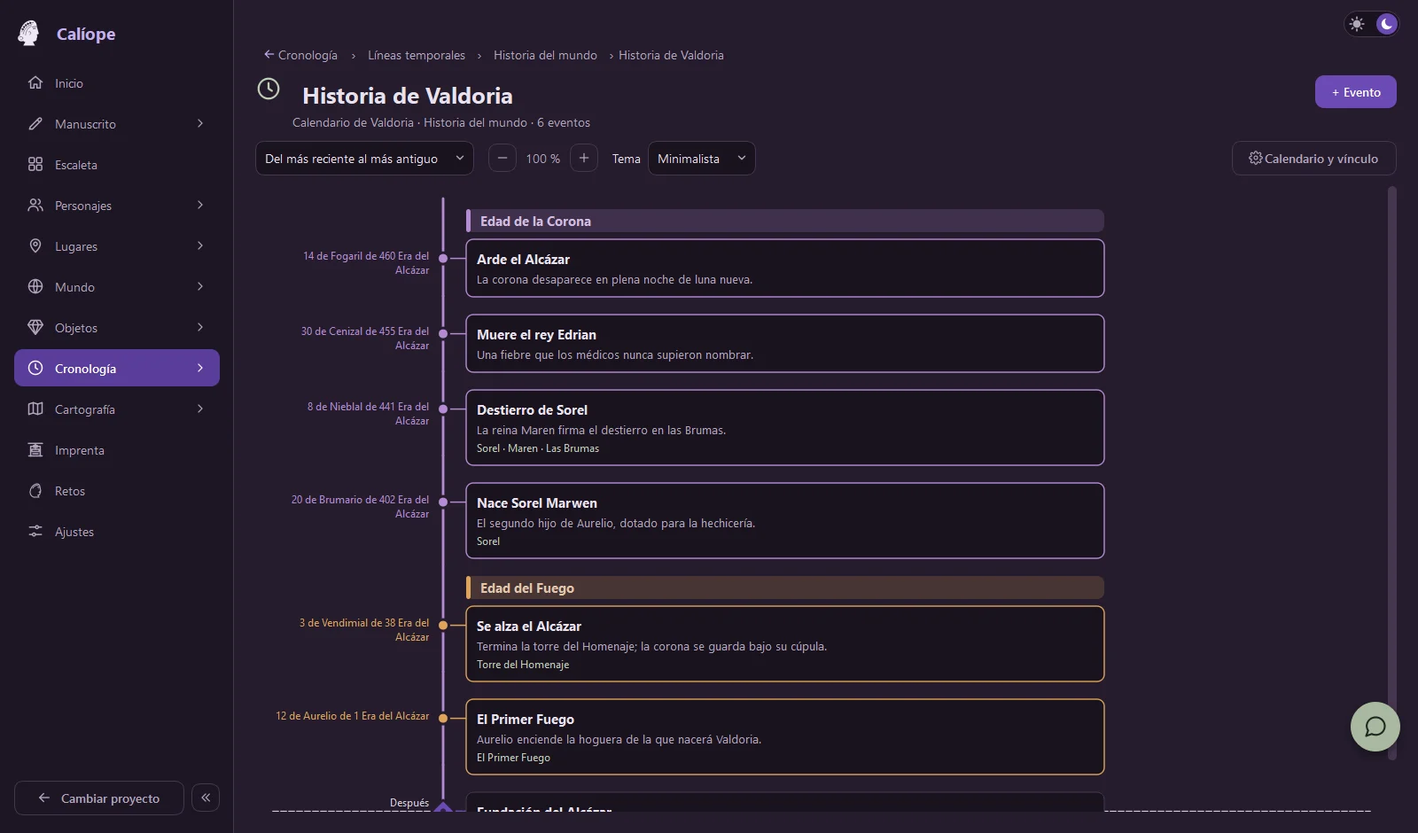
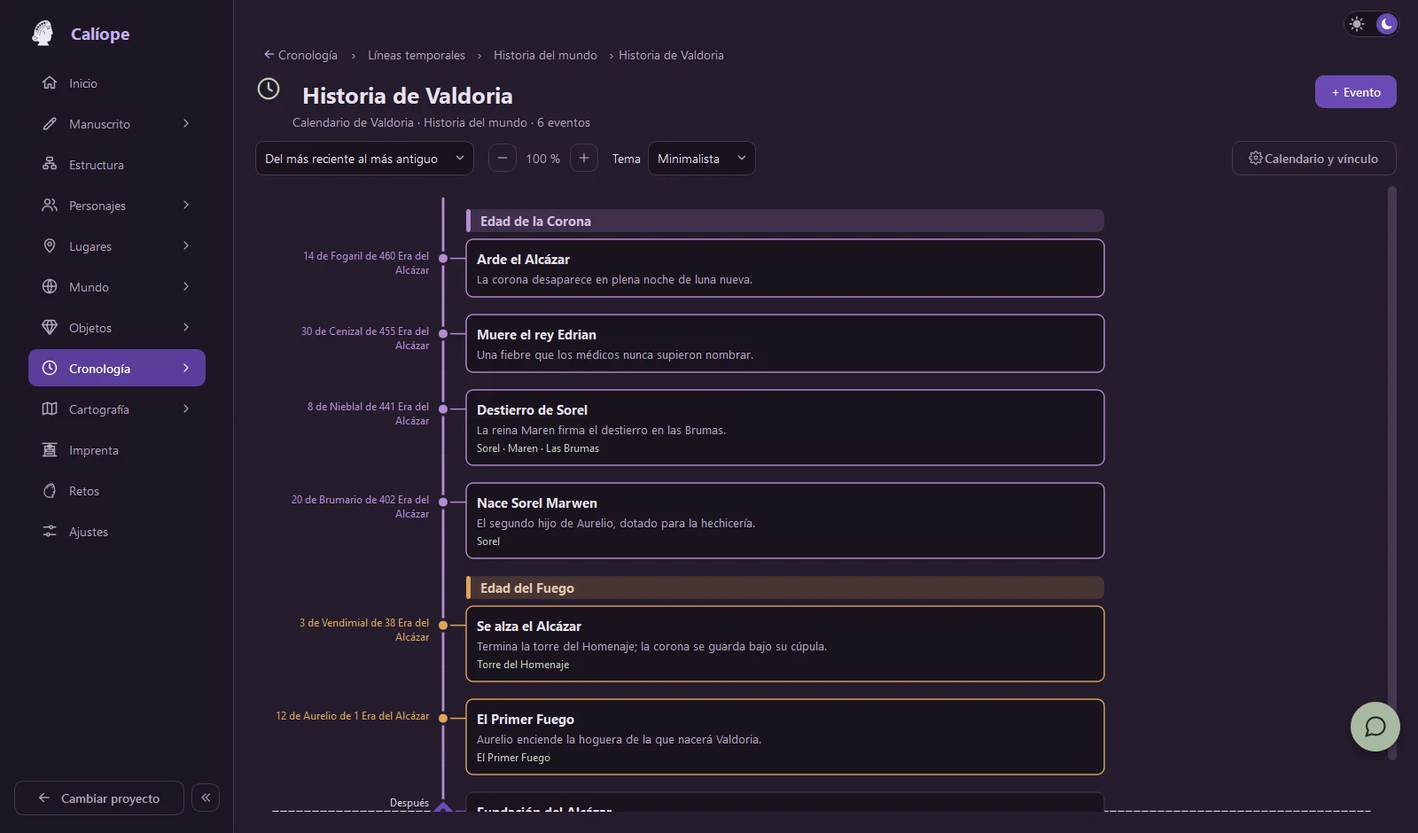
Calíope 1.10.0: Continuidad, Estructura y web renovada

diff --git a/docs/index.html b/docs/index.html
@@ -3,14 +3,14 @@
 <head>
 <meta charset="utf-8">
 <meta name="viewport" content="width=device-width, initial-scale=1">
-<meta name="caliope-version" content="1.9.1">
+<meta name="caliope-version" content="1.10.0">
 <title>Calíope — Invoca a tus musas. Da vida a tus mundos.</title>
-<meta name="description" content="Calíope es una aplicación de escritorio para escritores: manuscrito, escaleta, personajes, mundo, mapas, cronologías y exportación a EPUB, Kindle, DOCX y PDF. Todo en tu ordenador, sin cuentas ni nube.">
+<meta name="description" content="Calíope es una aplicación de escritorio para escritores: manuscrito con revisión de continuidad, escaleta y matriz de ritmo, personajes, mundo, mapas, cronologías y exportación a EPUB, Kindle, DOCX y PDF. Todo en tu ordenador, sin cuentas ni nube.">
 <meta name="theme-color" content="#1b1422" media="(prefers-color-scheme: dark)">
 <meta name="theme-color" content="#EDE6DA" media="(prefers-color-scheme: light)">
 <meta name="color-scheme" content="dark light">
 <meta property="og:title" content="Calíope — Invoca a tus musas. Da vida a tus mundos.">
-<meta property="og:description" content="Tu musa para la escritura: manuscrito, mundo, mapas y cronologías, 100 % en tu ordenador.">
+<meta property="og:description" content="Tu musa para la escritura: manuscrito, continuidad, estructura, mundo, mapas y cronologías, 100 % en tu ordenador.">
 <meta property="og:type" content="website">
 <link rel="icon" href="assets/favicon.svg" type="image/svg+xml">
 <link rel="stylesheet" href="css/style.css">
@@ -24,20 +24,20 @@
     <div>
       <div class="logo" role="img" aria-label="Calíope"><span class="mark" aria-hidden="true"><!--LOGO--><svg xmlns="http://www.w3.org/2000/svg" viewBox="0 0 100 100"><defs><mask id="m" maskUnits="userSpaceOnUse" x="0" y="0" width="100" height="100"><rect width="100" height="100" fill="#fff"/><path d="M57.00 19.50C41.00 19.50 27.00 30.00 22.50 47.00Z" fill="none" stroke="#000" stroke-width="1.25" stroke-linecap="round"/><path d="M50.21 19.38C51.03 22.15 48.99 24.60 46.12 24.30C45.30 21.53 47.35 19.07 50.21 19.38Z" fill="#000"/><path d="M50.53 20.82C48.04 22.29 45.16 20.90 44.76 18.04C47.25 16.58 50.13 17.97 50.53 20.82Z" fill="#000"/><path d="M42.95 21.58C44.34 24.11 42.86 26.94 39.99 27.26C38.60 24.73 40.08 21.89 42.95 21.58Z" fill="#000"/><path d="M43.56 22.92C41.44 24.88 38.33 24.14 37.34 21.43C39.45 19.47 42.56 20.22 43.56 22.92Z" fill="#000"/><path d="M36.34 25.26C38.24 27.44 37.40 30.52 34.67 31.44C32.77 29.27 33.61 26.18 36.34 25.26Z" fill="#000"/><path d="M37.23 26.45C35.58 28.81 32.38 28.75 30.83 26.32C32.48 23.95 35.68 24.01 37.23 26.45Z" fill="#000"/><path d="M30.60 30.34C32.92 32.06 32.76 35.25 30.28 36.73C27.96 35.01 28.13 31.81 30.60 30.34Z" fill="#000"/><path d="M31.72 31.31C30.61 33.97 27.47 34.58 25.44 32.54C26.55 29.87 29.69 29.26 31.72 31.31Z" fill="#000"/><path d="M25.94 36.70C28.56 37.90 29.07 41.06 26.95 43.02C24.33 41.82 23.82 38.67 25.94 36.70Z" fill="#000"/><path d="M27.23 37.42C26.70 40.25 23.76 41.51 21.34 39.93C21.87 37.10 24.81 35.84 27.23 37.42Z" fill="#000"/><path d="M52 25.5C38 29 29 41 27 53" fill="none" stroke="#000" stroke-width="1.25" stroke-linecap="round" stroke-linejoin="round"/><path d="M50 31C41 35 35 44 34 56" fill="none" stroke="#000" stroke-width="1.25" stroke-linecap="round" stroke-linejoin="round"/><path d="M16 64C19 60 25 61 26 66C26 70 21 72 19 69" fill="none" stroke="#000" stroke-width="1.25" stroke-linecap="round" stroke-linejoin="round"/><path d="M44 47C49 44.5 51.5 50 47 55" fill="none" stroke="#000" stroke-width="1.25" stroke-linecap="round" stroke-linejoin="round"/><path d="M54.5 32.5C58 30.5 62 30.5 65.2 32.2" fill="none" stroke="#000" stroke-width="1.5" stroke-linecap="round"/><path d="M55.5 37.5C57.5 34.8 62 34.8 64.8 37.2C62 40 57.5 40.2 55.5 37.5Z" fill="#000"/><circle cx="60.4" cy="37.3" r="1.9" fill="#fff"/></mask></defs><path d="M54.00 13.00L55.46 13.35L56.86 13.83L58.17 14.44L59.41 15.16L60.56 16.00L61.63 16.93L62.61 17.95L63.50 19.06L64.30 20.25L65.00 21.50L65.60 22.81L66.09 24.18L66.49 25.59L66.77 27.03L66.94 28.51L67.00 30.00L72.50 50.50L73.19 52.31L72.31 53.69L70.00 54.50L66.50 55.20L68.12 57.40L69.00 59.00L68.36 60.15L67.50 61.00L68.50 62.56L68.00 64.50L66.91 66.06L66.80 68.00L66.85 69.49L66.50 70.94L65.75 72.28L64.59 73.49L63.00 74.50L61.75 75.03L60.52 75.42L59.31 75.70L58.15 75.88L57.04 75.97L56.00 76.00L56.30 77.09L56.64 78.18L57.04 79.27L57.49 80.36L57.98 81.45L58.53 82.55L59.12 83.64L59.77 84.73L60.46 85.82L61.21 86.91L62.00 88.00L27.00 88.00L27.67 86.70L28.33 85.47L29.00 84.30L29.67 83.17L30.33 82.09L31.00 81.04L31.67 80.01L32.33 79.00L33.00 78.00L31.84 77.46L30.70 76.87L29.59 76.23L28.51 75.56L27.47 74.83L26.69 74.25L25.16 74.91L23.39 75.35L21.50 75.50L19.61 75.35L17.84 74.91L16.20 74.20L14.73 73.27L13.47 72.12L12.43 70.79L11.66 69.31L11.17 67.71L11.00 66.00L11.17 64.29L11.66 62.69L12.43 61.21L13.47 59.88L14.73 58.73L16.20 57.80L17.12 57.40L17.04 56.42L17.00 55.00L17.02 53.44L17.10 51.88L17.22 50.34L17.39 48.82L17.60 47.30L17.86 45.80L18.17 44.32L18.52 42.86L18.91 41.42L19.35 39.99L19.83 38.59L20.35 37.22L20.91 35.86L21.51 34.54L22.14 33.24L22.82 31.96L23.53 30.72L24.28 29.51L25.06 28.33L25.88 27.19L26.74 26.08L27.62 25.00L28.54 23.96L29.50 22.96L30.48 22.00L31.49 21.08L32.53 20.21L33.60 19.37L34.70 18.59L35.83 17.84L36.98 17.15L38.16 16.50L39.36 15.91L40.59 15.36L41.84 14.87L43.11 14.43L44.40 14.04L45.72 13.72L47.05 13.45L48.40 13.23L49.78 13.08L51.17 12.99L52.58 12.96L54.00 13.00Z" fill="currentColor" mask="url(#m)"/></svg><!--/LOGO--></span><span class="word">Calíope</span></div>
       <h1>Invoca a tus musas.<em>Da vida a tus mundos.</em></h1>
-      <p class="lead">Un taller de escritura para tu ordenador: manuscrito, personajes, mapas y cronologías en un solo lugar, y de ahí a tu lector.</p>
+      <p class="lead">Un taller de escritura para tu ordenador: manuscrito, personajes, mapas y cronologías en un solo lugar, y de ahí a tus lectores.</p>
       <div class="badges">
         <span class="badge"><svg viewBox="0 0 24 24" fill="currentColor" aria-hidden="true"><path d="M3 5.5 10.5 4.4v7.1H3zm8.5-1.2L21 3v8.5h-9.5zM3 12.5h7.5v7.1L3 18.5zm8.5 0H21V21l-9.5-1.3z"/></svg>Windows 10 / 11</span>
         <span class="badge"><svg viewBox="0 0 24 24" fill="currentColor" aria-hidden="true"><path d="M16.4 12.6c0-2.3 1.9-3.4 2-3.5-1.1-1.6-2.8-1.8-3.4-1.8-1.4-.1-2.8.9-3.5.9s-1.8-.8-3-.8c-1.5 0-3 .9-3.8 2.3-1.6 2.8-.4 7 1.2 9.3.8 1.1 1.7 2.4 2.9 2.3 1.2 0 1.6-.7 3-.7s1.8.7 3 .7c1.3 0 2.1-1.1 2.8-2.3.9-1.3 1.3-2.5 1.3-2.6-.1 0-2.5-1-2.5-3.8zM14.1 5.8c.6-.8 1.1-1.8.9-2.9-.9 0-2 .6-2.7 1.4-.6.7-1.1 1.8-.9 2.8 1 .1 2-.5 2.7-1.3z"/></svg>macOS</span>
         <span class="badge">Gratis · sin cuenta</span>
       </div>
       <div class="cta">
-        <a class="btn win" href="https://github.com/marinaescobar/caliope/releases/download/v1.9.1/Caliope-Setup-1.9.1.exe">
+        <a class="btn win" href="https://github.com/marinaescobar/caliope/releases/download/v1.10.0/Caliope-Setup-1.10.0.exe">
           <svg viewBox="0 0 24 24" fill="currentColor" aria-hidden="true"><path d="M3 5.5 10.5 4.4v7.1H3zm8.5-1.2L21 3v8.5h-9.5zM3 12.5h7.5v7.1L3 18.5zm8.5 0H21V21l-9.5-1.3z"/></svg>
-          <span>Descargar para Windows<small>Instalador .exe · v1.9.1</small></span>
+          <span>Descargar para Windows<small>Instalador .exe · v1.10.0</small></span>
         </a>
-        <a class="btn mac" href="https://github.com/marinaescobar/caliope/releases/download/v1.9.1/Caliope-1.9.1-macOS-arm64.dmg">
+        <a class="btn mac" href="https://github.com/marinaescobar/caliope/releases/download/v1.10.0/Caliope-1.10.0-macOS-arm64.dmg">
           <svg viewBox="0 0 24 24" fill="currentColor" aria-hidden="true"><path d="M16.4 12.6c0-2.3 1.9-3.4 2-3.5-1.1-1.6-2.8-1.8-3.4-1.8-1.4-.1-2.8.9-3.5.9s-1.8-.8-3-.8c-1.5 0-3 .9-3.8 2.3-1.6 2.8-.4 7 1.2 9.3.8 1.1 1.7 2.4 2.9 2.3 1.2 0 1.6-.7 3-.7s1.8.7 3 .7c1.3 0 2.1-1.1 2.8-2.3.9-1.3 1.3-2.5 1.3-2.6-.1 0-2.5-1-2.5-3.8zM14.1 5.8c.6-.8 1.1-1.8.9-2.9-.9 0-2 .6-2.7 1.4-.6.7-1.1 1.8-.9 2.8 1 .1 2-.5 2.7-1.3z"/></svg>
-          <span>Descargar para Mac<small>.dmg · Apple Silicon · v1.9.1</small></span>
+          <span>Descargar para Mac<small>.dmg · Apple Silicon · v1.10.0</small></span>
         </a>
       </div>
     </div>
@@ -51,50 +51,50 @@
     <div class="sec-head">
       <span class="eyebrow">Todo tu universo narrativo</span>
       <h2>De la primera idea al último capítulo</h2>
-      <p>Cada parte de tu historia tiene su sitio, y todas hablan entre sí.</p>
+      <p>Cada parte de tu historia tiene su sitio, y todas hablan entre sí. Pasa el ratón por una tarjeta, o púlsala, para ver qué hace.</p>
     </div>
     <div class="grid">
-      <div class="card">
+      <div class="card" tabindex="0">
         <svg class="ic" viewBox="0 0 24 24" fill="none" stroke="currentColor" stroke-width="1.5" stroke-linecap="round" stroke-linejoin="round" aria-hidden="true"><path d="M4 5a2 2 0 0 1 2-2h13v16H6a2 2 0 0 0-2 2z"/><path d="M4 21V5"/><path d="M9 8h6M9 12h6"/></svg>
         <h3>Manuscrito</h3>
-        <p>Partes, capítulos y escenas en un editor limpio. <b>Estados, versiones con comparador</b>, corrector local que revisas cuando quieres e importación desde Word, PDF o texto.</p>
+        <p>Partes, capítulos y escenas en un editor limpio. <b>Estados, versiones con comparador</b>, corrector local que revisas cuando quieres, importación desde Word, PDF o texto y <b>Continuidad</b>.</p>
       </div>
-      <div class="card">
-        <svg class="ic" viewBox="0 0 24 24" fill="none" stroke="currentColor" stroke-width="1.5" stroke-linecap="round" stroke-linejoin="round" aria-hidden="true"><rect x="3" y="3" width="7" height="9" rx="1"/><rect x="14" y="3" width="7" height="5" rx="1"/><rect x="14" y="12" width="7" height="9" rx="1"/><rect x="3" y="16" width="7" height="5" rx="1"/></svg>
-        <h3>Escaleta</h3>
-        <p>Un tablero de tarjetas por actos, partes, capítulos, tramas o personaje (POV). <b>Mover una tarjeta mueve la escena</b> en el manuscrito.</p>
+      <div class="card" tabindex="0">
+        <svg class="ic" viewBox="0 0 24 24" fill="none" stroke="currentColor" stroke-width="1.5" stroke-linecap="round" stroke-linejoin="round" aria-hidden="true"><rect x="8" y="3" width="8" height="4.5" rx="1.3"/><path d="M12 7.5V11M6.5 14v-3h11v3"/><rect x="3.5" y="14" width="6" height="4.5" rx="1.3"/><rect x="14.5" y="14" width="6" height="4.5" rx="1.3"/></svg>
+        <h3>Estructura</h3>
+        <p>Una escaleta de tarjetas por actos, tramas o personaje (POV) —<b>mover una tarjeta mueve la escena</b>— y una <b>Matriz</b> que cruza capítulos, personajes y tramas para ver dónde falla el ritmo.</p>
       </div>
-      <div class="card">
+      <div class="card" tabindex="0">
         <svg class="ic" viewBox="0 0 24 24" fill="none" stroke="currentColor" stroke-width="1.5" stroke-linecap="round" stroke-linejoin="round" aria-hidden="true"><circle cx="9" cy="8" r="3.5"/><path d="M2.5 20c.6-3.6 3.2-5.5 6.5-5.5s5.9 1.9 6.5 5.5"/><path d="M16 4.7a3.5 3.5 0 0 1 0 6.6M18 14.8c1.8.7 3 2.4 3.5 5.2"/></svg>
         <h3>Personajes, lugares y objetos</h3>
         <p>Fichas a medida con <b>autocompletado y enlaces cruzados</b>. «Explorar» te deja consultar tu mundo sin salir de la escena.</p>
       </div>
-      <div class="card">
+      <div class="card" tabindex="0">
         <svg class="ic" viewBox="0 0 24 24" fill="none" stroke="currentColor" stroke-width="1.5" stroke-linecap="round" stroke-linejoin="round" aria-hidden="true"><circle cx="12" cy="12" r="9"/><path d="M3 12h18M12 3c3 3 3 15 0 18M12 3c-3 3-3 15 0 18"/></svg>
         <h3>Mundo narrativo</h3>
         <p>Universo, mitología, bestiario, historia, sistemas y civilizaciones, con campos pensados para cada tipo de entrada.</p>
       </div>
-      <div class="card">
+      <div class="card" tabindex="0">
         <svg class="ic" viewBox="0 0 24 24" fill="none" stroke="currentColor" stroke-width="1.5" stroke-linecap="round" stroke-linejoin="round" aria-hidden="true"><circle cx="12" cy="5" r="2.5"/><circle cx="5" cy="19" r="2.5"/><circle cx="19" cy="19" r="2.5"/><path d="M12 7.5V13M12 13H5v3.5M12 13h7v3.5"/></svg>
         <h3>Relaciones y dinastías</h3>
         <p>Un mapa interactivo de vínculos (más de noventa tipos) y <b>árboles genealógicos</b> sin cruces, sincronizados entre sí.</p>
       </div>
-      <div class="card">
+      <div class="card" tabindex="0">
         <svg class="ic" viewBox="0 0 24 24" fill="none" stroke="currentColor" stroke-width="1.5" stroke-linecap="round" stroke-linejoin="round" aria-hidden="true"><circle cx="12" cy="12" r="9"/><path d="M12 7v5l3 2"/></svg>
         <h3>Cronología</h3>
         <p>Líneas temporales con <b>doce calendarios históricos</b> o el tuyo: eras, meses, semanas y edades, con imágenes y menciones.</p>
       </div>
-      <div class="card">
+      <div class="card" tabindex="0">
         <svg class="ic" viewBox="0 0 24 24" fill="none" stroke="currentColor" stroke-width="1.5" stroke-linecap="round" stroke-linejoin="round" aria-hidden="true"><path d="m3 6 6-2 6 2 6-2v14l-6 2-6-2-6 2z"/><path d="M9 4v14M15 6v14"/></svg>
         <h3>Cartografía</h3>
         <p>Mapas de mundos y planos de ciudades con estilos, rejilla, símbolos y <b>pines que abren la ficha</b> del lugar. Exporta a imagen.</p>
       </div>
-      <div class="card">
+      <div class="card" tabindex="0">
         <svg class="ic" viewBox="0 0 24 24" fill="none" stroke="currentColor" stroke-width="1.5" stroke-linecap="round" stroke-linejoin="round" aria-hidden="true"><path d="m12 3 9 5-9 5-9-5z"/><path d="m3 13 9 5 9-5M3 17.5l9 5 9-5" opacity=".6"/></svg>
         <h3>Universos y Sagas</h3>
         <p>Agrupa libros en una saga y <b>comparte personajes, lugares y mundo</b> entre ellos, con el manuscrito de cada uno aparte.</p>
       </div>
-      <div class="card">
+      <div class="card" tabindex="0">
         <svg class="ic" viewBox="0 0 24 24" fill="none" stroke="currentColor" stroke-width="1.5" stroke-linecap="round" stroke-linejoin="round" aria-hidden="true"><path d="M4 20V10M10 20V4M16 20v-7M22 20H2"/></svg>
         <h3>Análisis y Modo Ultra Foco</h3>
         <p>Palabras, legibilidad, diálogo y vocabulario de tu manuscrito, y un modo a pantalla completa con <b>ambientes y máquina de escribir reales</b>.</p>
@@ -142,9 +142,84 @@
   </div>
 </section>
 
+<!-- ============================ Estructura ============================ -->
+<section id="estructura" class="s-deep">
+  <div class="wrap split">
+    <div>
+      <span class="eyebrow">Estructura · Escaleta y Matriz</span>
+      <h2>Tu historia, vista desde arriba</h2>
+      <p>Planifícala en tarjetas y comprueba, capítulo a capítulo, quién aparece y qué trama avanza. La Matriz te enseña dónde se rompe el ritmo antes de que lo noten tus lectores.</p>
+      <ul class="list">
+        <li><b>Escaleta</b>: un tablero por actos, partes, capítulos, tramas o personaje (POV). Mover una tarjeta mueve la escena en el manuscrito.</li>
+        <li><b>Matriz</b>: capítulos en las filas; personajes, tramas o ambos cruzados en las columnas, como un mapa de calor.</li>
+        <li>Detecta <b>personajes que desaparecen</b>, apariciones repentinas sin presentación, <b>tramas estancadas</b>, apariciones aisladas y tramas huérfanas.</li>
+        <li>Al pasar el ratón por una celda te explica la anomalía; un clic te lleva al punto exacto del editor.</li>
+      </ul>
+      <p class="note">Todo se calcula en tu ordenador, con reglas y sin IA. La Matriz avisa; nunca toca tu texto.</p>
+    </div>
+    <div class="frame"><div class="bar"><i></i><i></i><i></i></div><img src="img/matriz.webp" width="1040" height="700" alt="Matriz de Calíope: capítulos en las filas y personajes en las columnas, con las celdas de ausencia prolongada resaltadas en ámbar" loading="lazy"></div>
+  </div>
+</section>
+
+<!-- ============================ Continuidad ============================ -->
+<section id="continuidad" class="s-mid">
+  <div class="wrap split rev">
+    <div>
+      <span class="eyebrow">Continuidad · sin IA · sin red</span>
+      <h2>Que tu historia no se contradiga</h2>
+      <p>Calíope cruza el texto de tus escenas con tus fichas y tus cronologías, y te avisa de lo que no casa. Nunca corrige por su cuenta.</p>
+      <ul class="list">
+        <li><b>Nombres y apellidos</b> que cambian, con una errata o sin su tilde: personajes, lugares, Mundo y objetos.</li>
+        <li><b>Datos que no casan</b> con la ficha: ojos, cabello, creencias, religión, gobierno, clima…</li>
+        <li><b>Consistencia</b>: una prenda que cambia dentro de la escena, o una narración (persona, tiempo) distinta de la que marcaste.</li>
+        <li><b>Apariciones tras su muerte</b>, según tu cronología.</li>
+        <li>«Corregir» respeta género y número; «Ignorar…» guarda tu motivo («cambió de apellido al casarse»).</li>
+      </ul>
+      <p class="note">Prefiere avisar de más: lo que no te sirva, lo ignoras con un clic.</p>
+    </div>
+    <div class="frame"><div class="bar"><i></i><i></i><i></i></div><img src="img/continuidad.webp" width="1600" height="900" alt="Pestaña Continuidad del Manuscrito con avisos de nombre sin tilde, apellido distinto y color de ojos que no coincide con la ficha" loading="lazy"></div>
+  </div>
+</section>
+
+<!-- ============================ Relaciones y genealogías ============================ -->
+<section id="relaciones" class="s-deep">
+  <div class="wrap split">
+    <div>
+      <span class="eyebrow">Relaciones y genealogías</span>
+      <h2>Quién es quién, y de quién</h2>
+      <p>Un mapa de vínculos y árboles genealógicos que se mantienen iguales entre sí: dibujas uno y el otro se entera.</p>
+      <ul class="list">
+        <li><b>Más de noventa tipos de vínculo</b> que se adaptan al género de cada ficha («Hija», «Hijo», «Hije»).</li>
+        <li>Árboles con <b>líneas rectas y sin cruces</b>, en tres estilos: minimalista, elegante y fantasía.</li>
+        <li>Relaciones de familia y árboles <b>sincronizados en los dos sentidos</b>.</li>
+        <li>Dinastías con lema, familiares sin ficha y acceso directo a cada personaje.</li>
+      </ul>
+    </div>
+    <div class="frame"><div class="bar"><i></i><i></i><i></i></div><img src="img/genealogias.webp" width="1600" height="940" alt="Árbol genealógico de la Casa Marwen en estilo elegante, con líneas rectas y sin cruces" loading="lazy"></div>
+  </div>
+</section>
+
+<!-- ============================ Cronología ============================ -->
+<section id="cronologia" class="s-mid">
+  <div class="wrap split rev">
+    <div>
+      <span class="eyebrow">Cronología</span>
+      <h2>Tu mundo, con su propio calendario</h2>
+      <p>Líneas temporales para tu historia, tu mundo o cada personaje, con el calendario que tu mundo necesite.</p>
+      <ul class="list">
+        <li><b>Doce calendarios históricos</b> (gregoriano, juliano, chino, hebreo, islámico…) o el tuyo: meses, semana, eras y origen.</li>
+        <li><b>Edades</b> con su color («Edad del Fuego») que tiñen la línea, los nodos y las tarjetas.</li>
+        <li>Eventos con imágenes, descripción y <b>menciones</b> automáticas de personajes, lugares y objetos.</li>
+        <li>Un selector de fecha que entiende tu calendario inventado, del más reciente al más antiguo o al revés.</li>
+      </ul>
+    </div>
+    <div class="frame"><div class="bar"><i></i><i></i><i></i></div><img src="img/cronologia.webp" width="1600" height="940" alt="Línea temporal de un mundo inventado con un calendario propio y dos edades" loading="lazy"></div>
+  </div>
+</section>
+
 <!-- ============================ Imprenta ============================ -->
 <section id="imprenta" class="s-deep">
-  <div class="wrap split rev">
+  <div class="wrap split">
     <div>
       <span class="eyebrow">Imprenta</span>
       <h2>Del manuscrito al libro, sin salir de Calíope</h2>
@@ -178,7 +253,7 @@
 
 <!-- ============================ Ultra Foco ============================ -->
 <section id="ultrafoco" class="s-mid">
-  <div class="wrap split">
+  <div class="wrap split rev">
     <div>
       <span class="eyebrow">Modo Ultra Foco</span>
       <h2>Tú, la página y un poco de lluvia</h2>
@@ -197,7 +272,7 @@
 
 <!-- ============================ Dictado ============================ -->
 <section id="dictado" class="s-deep">
-  <div class="wrap split rev">
+  <div class="wrap split">
     <div>
       <span class="eyebrow">Sin IA · sin red</span>
       <h2>Dicta tu novela en voz alta</h2>
@@ -225,18 +300,18 @@
     <div class="sec-head c">
       <span class="eyebrow">Local primero</span>
       <h2>Tu obra vive en tu ordenador</h2>
-      <p>Sin suscripciones, sin registro y sin nube. Escribes, y lo que escribes se queda donde tú lo guardas.</p>
+      <p>Sin suscripciones, sin registro y sin nube. Escribes, y lo que escribes se queda donde tú lo guardas. Pasa el ratón por una tarjeta, o púlsala, para saber más.</p>
     </div>
     <div class="facts">
-      <div class="card">
+      <div class="card" tabindex="0">
         <h3>Funciona sin conexión</h3>
         <p>Manuscrito, fichas, mapas, corrector, sinónimos, dictado y exportación son <b>locales</b>. No necesitas internet para escribir.</p>
       </div>
-      <div class="card">
+      <div class="card" tabindex="0">
         <h3>Sin cuentas ni suscripciones</h3>
         <p><b>Sin sincronización.</b> Los perfiles son locales: eliges cómo quieres que te llamen y empiezas.</p>
       </div>
-      <div class="card">
+      <div class="card" tabindex="0">
         <h3>Código a la vista</h3>
         <p>Calíope se publica en GitHub: puedes ver qué hace, descargar cada versión y seguir su historial de cambios.</p>
       </div>
@@ -276,18 +351,18 @@
 <section id="descargar" class="s-mid">
   <div class="wrap">
     <div class="sec-head c" style="margin-bottom:0">
-      <span class="eyebrow">Versión 1.9.1</span>
+      <span class="eyebrow">Versión 1.10.0</span>
       <h2>Empieza a escribir hoy</h2>
       <p>Gratis, sin registro y sin conexión. Elige tu sistema.</p>
     </div>
     <div class="cta">
-      <a class="btn win" href="https://github.com/marinaescobar/caliope/releases/download/v1.9.1/Caliope-Setup-1.9.1.exe">
+      <a class="btn win" href="https://github.com/marinaescobar/caliope/releases/download/v1.10.0/Caliope-Setup-1.10.0.exe">
         <svg viewBox="0 0 24 24" fill="currentColor" aria-hidden="true"><path d="M3 5.5 10.5 4.4v7.1H3zm8.5-1.2L21 3v8.5h-9.5zM3 12.5h7.5v7.1L3 18.5zm8.5 0H21V21l-9.5-1.3z"/></svg>
-        <span>Windows<small>Caliope-Setup-1.9.1.exe</small></span>
+        <span>Windows<small>Caliope-Setup-1.10.0.exe</small></span>
       </a>
-      <a class="btn mac" href="https://github.com/marinaescobar/caliope/releases/download/v1.9.1/Caliope-1.9.1-macOS-arm64.dmg">
+      <a class="btn mac" href="https://github.com/marinaescobar/caliope/releases/download/v1.10.0/Caliope-1.10.0-macOS-arm64.dmg">
         <svg viewBox="0 0 24 24" fill="currentColor" aria-hidden="true"><path d="M16.4 12.6c0-2.3 1.9-3.4 2-3.5-1.1-1.6-2.8-1.8-3.4-1.8-1.4-.1-2.8.9-3.5.9s-1.8-.8-3-.8c-1.5 0-3 .9-3.8 2.3-1.6 2.8-.4 7 1.2 9.3.8 1.1 1.7 2.4 2.9 2.3 1.2 0 1.6-.7 3-.7s1.8.7 3 .7c1.3 0 2.1-1.1 2.8-2.3.9-1.3 1.3-2.5 1.3-2.6-.1 0-2.5-1-2.5-3.8zM14.1 5.8c.6-.8 1.1-1.8.9-2.9-.9 0-2 .6-2.7 1.4-.6.7-1.1 1.8-.9 2.8 1 .1 2-.5 2.7-1.3z"/></svg>
-        <span>Mac · Apple Silicon<small>Caliope-1.9.1-macOS-arm64.dmg</small></span>
+        <span>Mac · Apple Silicon<small>Caliope-1.10.0-macOS-arm64.dmg</small></span>
       </a>
     </div>
     <div class="steps">

diff --git a/docs/css/style.css b/docs/css/style.css
@@ -189,3 +189,24 @@ footer .links{display:flex;flex-wrap:wrap;gap:8px 22px}
   .sec-head,.grid>*,.facts>*,.muses>*,.split>*,.steps>*,.viewer,.chips{animation:rise linear both;animation-timeline:view();animation-range:entry 0% entry 45%}
 }
 @media (prefers-reduced-motion:reduce){*,*::before,*::after{transition:none!important;animation:none!important;scroll-behavior:auto!important}}
+
+/* Tarjetas que se explican al pasar el ratón o al pulsarlas (solo CSS; el foco hace de «clic» y funciona en el móvil) */
+.grid .card,.facts .card{position:relative;min-height:250px;overflow:hidden;cursor:pointer;outline:none;-webkit-tap-highlight-color:transparent}
+.facts .card{min-height:210px}
+.grid .card .ic,.grid .card h3,.facts .card h3{transition:transform .35s ease}
+.grid .card .ic{transform:translateY(54px)}
+.grid .card h3{transform:translateY(54px)}
+.facts .card h3{transform:translateY(66px)}
+.grid .card p,.facts .card p{position:absolute;left:24px;right:24px;top:116px;opacity:0;transform:translateY(10px);pointer-events:none;
+  transition:opacity .3s ease,transform .3s ease}
+.facts .card p{top:74px}
+.grid .card::after,.facts .card::after{content:"+";position:absolute;right:18px;top:12px;font-size:1.4rem;line-height:1;color:var(--sage-text);
+  opacity:.7;transition:opacity .2s,transform .3s}
+.grid .card:hover .ic,.grid .card:focus .ic,.grid .card:hover h3,.grid .card:focus h3,
+.facts .card:hover h3,.facts .card:focus h3{transform:none}
+.grid .card:hover p,.grid .card:focus p,.facts .card:hover p,.facts .card:focus p{opacity:1;transform:none}
+.grid .card:hover::after,.grid .card:focus::after,.facts .card:hover::after,.facts .card:focus::after{opacity:0;transform:rotate(90deg)}
+.grid .card:focus-visible,.facts .card:focus-visible{border-color:var(--sage)}
+@media (max-width:900px){.grid .card{min-height:230px}}
+/* Lo que parece un botón pero no lo es, no se selecciona */
+.card,.chip,.badge,.fmt,.tag,.cmd,.tabs label,.eyebrow{-webkit-user-select:none;user-select:none}

diff --git a/README.md b/README.md
@@ -12,11 +12,11 @@ Aplicación de escritorio para escritores: organiza tu novela en partes, capítu
 
 ## ⬇ Descargar
 
-<a href="https://github.com/marinaescobar/caliope/releases/download/v1.9.1/Caliope-Setup-1.9.1.exe"><img src="https://img.shields.io/badge/Descargar%20para-Windows%20(.exe)-6C4AB6?style=for-the-badge&logo=windows&logoColor=white" alt="Descargar para Windows"></a>
+<a href="https://github.com/marinaescobar/caliope/releases/download/v1.10.0/Caliope-Setup-1.10.0.exe"><img src="https://img.shields.io/badge/Descargar%20para-Windows%20(.exe)-6C4AB6?style=for-the-badge&logo=windows&logoColor=white" alt="Descargar para Windows"></a>
 &nbsp;
-<a href="https://github.com/marinaescobar/caliope/releases/download/v1.9.1/Caliope-1.9.1-macOS-arm64.dmg"><img src="https://img.shields.io/badge/Descargar%20para-Mac%20Apple%20Silicon%20(.dmg)-A8B89F?style=for-the-badge&logo=apple&logoColor=1F2820&labelColor=A8B89F&color=A8B89F" alt="Descargar para Mac con Apple Silicon"></a>
+<a href="https://github.com/marinaescobar/caliope/releases/download/v1.10.0/Caliope-1.10.0-macOS-arm64.dmg"><img src="https://img.shields.io/badge/Descargar%20para-Mac%20Apple%20Silicon%20(.dmg)-A8B89F?style=for-the-badge&logo=apple&logoColor=1F2820&labelColor=A8B89F&color=A8B89F" alt="Descargar para Mac con Apple Silicon"></a>
 
-<sub>Versión 1.9.1 · [Página web](https://marinaescobar.github.io/caliope/) · [Todas las versiones y novedades](https://github.com/marinaescobar/caliope/releases)</sub>
+<sub>Versión 1.10.0 · [Página web](https://marinaescobar.github.io/caliope/) · [Todas las versiones y novedades](https://github.com/marinaescobar/caliope/releases)</sub>
 
 </div>
 
@@ -24,8 +24,8 @@ Aplicación de escritorio para escritores: organiza tu novela en partes, capítu
 
 | Tu equipo | Archivo | Enlace directo |
 |---|---|---|
-| 🪟 **Windows** 10 / 11 | `Caliope-Setup-1.9.1.exe` | [Descargar](https://github.com/marinaescobar/caliope/releases/download/v1.9.1/Caliope-Setup-1.9.1.exe) |
-| 🍎 **Mac con chip Apple** (M1, M2, M3, M4…) | `Caliope-1.9.1-macOS-arm64.dmg` | [Descargar](https://github.com/marinaescobar/caliope/releases/download/v1.9.1/Caliope-1.9.1-macOS-arm64.dmg) |
+| 🪟 **Windows** 10 / 11 | `Caliope-Setup-1.10.0.exe` | [Descargar](https://github.com/marinaescobar/caliope/releases/download/v1.10.0/Caliope-Setup-1.10.0.exe) |
+| 🍎 **Mac con chip Apple** (M1, M2, M3, M4…) | `Caliope-1.10.0-macOS-arm64.dmg` | [Descargar](https://github.com/marinaescobar/caliope/releases/download/v1.10.0/Caliope-1.10.0-macOS-arm64.dmg) |
 
 ### Instalar en Windows
 Ejecuta el `.exe` y sigue el asistente (no necesita permisos de administrador). Si Windows SmartScreen avisa, pulsa **Más información › Ejecutar de todas formas**: el instalador aún no está firmado.
@@ -44,6 +44,8 @@ Calíope busca e instala actualizaciones desde **Ajustes › Información de Cal
 ## Qué incluye
 
 - **Manuscrito** por partes, capítulos y escenas, con propósito, resumen e ideas en cada nivel, importación de manuscritos (`.docx`, `.pdf`, `.txt`) y un panel de análisis con gráficos y recomendaciones.
+- **Continuidad** (pestaña del Manuscrito, 100 % local y sin IA): cruza tus escenas con tus fichas y cronologías y avisa de apellidos y nombres que cambian o llevan una errata, de rasgos que no casan con la ficha (ojos, cabello, religión, gobierno, clima…), de una prenda o una narración que cambia dentro de la escena y de personajes que aparecen tras su muerte. «Corregir» respeta género y número; «Ignorar…» guarda tu motivo.
+- **Estructura**: la **Escaleta** (tablero de tarjetas por actos, partes, capítulos, tramas o personaje) y la **Matriz**, que cruza capítulos, personajes y tramas en un mapa de calor y detecta desapariciones, apariciones repentinas, tramas estancadas, huérfanas e incoherencias de reparto. Un clic en una celda abre el punto exacto del editor.
 - **Corrector** ortográfico, gramatical y de estilo en español, y diccionario de sinónimos, todo sin conexión.
 - **Personajes, relaciones, lugares y mundo**, con autocompletado y enlaces entre ellos.
 - **Cartografía**: mapas de fantasía y planos de ciudad.
@@ -86,6 +88,8 @@ Es la única que sale de tu ordenador, y solo envía lo que escribes en su chat;
 Tus proyectos se guardan solo en tu equipo. Talía, el corrector y los sinónimos funcionan **sin conexión y sin IA**: ningún dato de tu proyecto sale de tu ordenador.
 La única parte que se conecta a internet es **Clío**, y **no usa ningún dato introducido en Calíope**: únicamente recibe lo que escribas en su chat.
 Si prefieres no usarla, desmarca **Ajustes › Mostrar a Clío** y su chat se oculta.
+
+---
 
 ## Licencias de terceros
 
